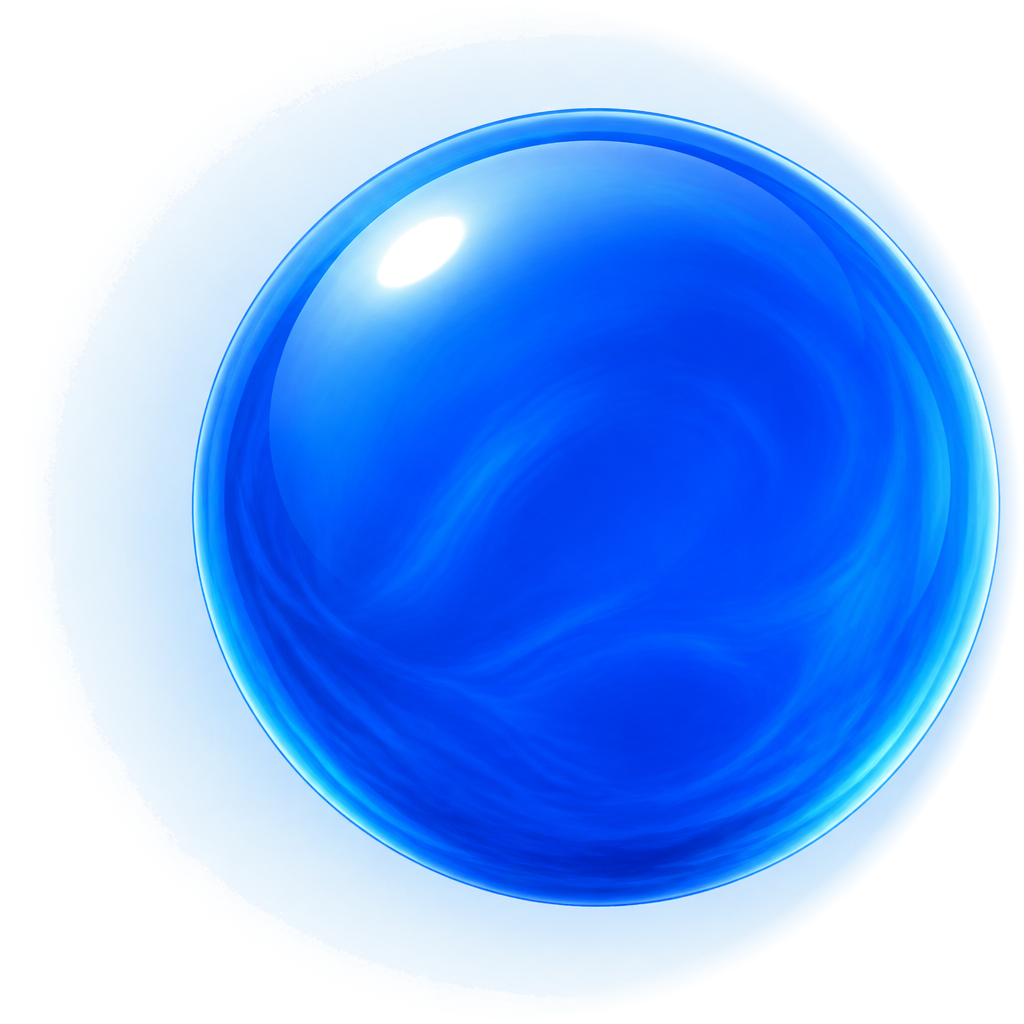
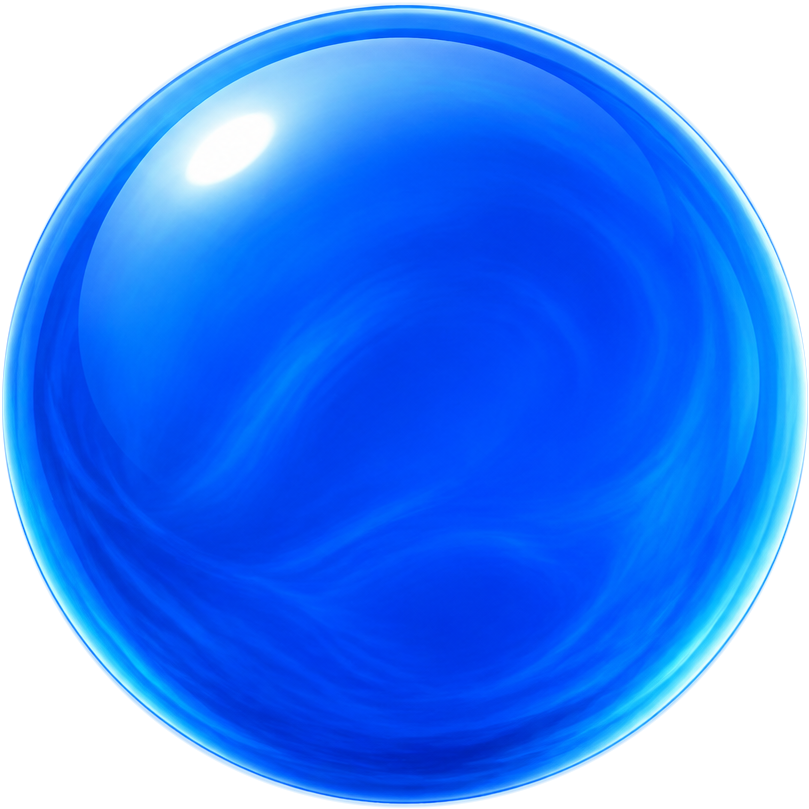
Crop the ball to its own edge so no halo ring shows

diff --git a/public/score-ask.html b/public/score-ask.html
@@ -47,12 +47,12 @@
     width:314px; height:314px; border-radius:50%; background:transparent;
     display:flex; flex-direction:column; align-items:center; justify-content:center; gap:11px;
     transition:transform .15s ease, filter .25s ease;
-    filter:drop-shadow(0 0 34px rgba(90,175,245,.55));
+    filter:drop-shadow(0 0 30px rgba(90,175,245,.6)) drop-shadow(0 0 68px rgba(120,195,250,.45));
   }
   /* Clipped to a circle so no square edge of the render ever shows. */
   #orb .sphere{
-    position:absolute; inset:-6%; width:112%; height:112%;
-    object-fit:contain; border-radius:50%; pointer-events:none; user-select:none;
+    position:absolute; inset:0; width:100%; height:100%;
+    object-fit:cover; border-radius:50%; pointer-events:none; user-select:none;
   }
   #orb > *:not(.sphere){ position:relative; z-index:1 }
   #orb:active{ transform:scale(.985) }
@@ -66,8 +66,8 @@
   #orb .cap{ color:#fff; font-size:25px; font-weight:700; text-shadow:0 2px 12px rgba(0,38,88,.5) }
 
   body[data-state="connecting"] #orb{ animation:breathe 1.15s ease-in-out infinite }
-  body[data-state="speaking"] #orb{ filter:drop-shadow(0 0 56px rgba(90,175,245,.9)) }
-  @keyframes breathe{ 50%{ filter:drop-shadow(0 0 52px rgba(90,175,245,.85)) } }
+  body[data-state="speaking"] #orb{ filter:drop-shadow(0 0 44px rgba(90,175,245,.95)) drop-shadow(0 0 96px rgba(120,195,250,.7)) }
+  @keyframes breathe{ 50%{ filter:drop-shadow(0 0 40px rgba(90,175,245,.9)) drop-shadow(0 0 88px rgba(120,195,250,.62)) } }
 
   body[data-state="idle"] .hint{visibility:hidden}
   .hint{ margin:16px 0 0; font-size:15px; color:var(--muted) }
